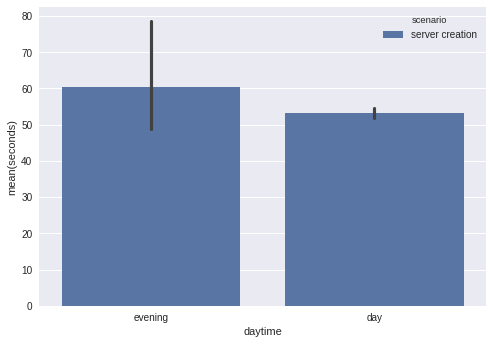
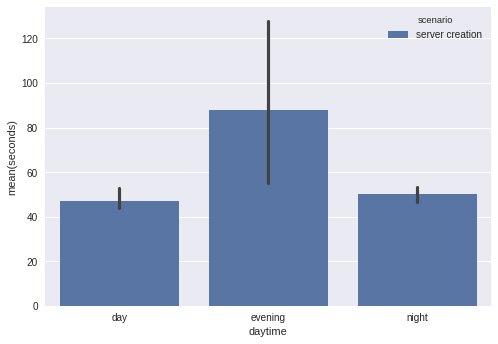
pick significant results and intepret them

diff --git a/deliverable.md b/deliverable.md
@@ -99,6 +99,7 @@ def create_server
     ' --security-group grp17_security_group'\
     " --key-name #{ENV['USER']}"
   `#{cmd}`
+  sleep 1 # api sometimes too slow...
   puts 'connecting floating ip to server'
   `openstack server add floating ip grp17_instance #{floating_ip}`
 end
@@ -152,32 +153,24 @@ end
 Our results for the measurements are the following:
 
 ``` text
-2017-06-21 18:35:32 +0200;evening;server list;1.899074509
-2017-06-21 18:35:35 +0200;evening;server creation;50.507970476
-2017-06-21 18:46:26 +0200;evening;server list;2.64838352
-2017-06-21 18:46:30 +0200;evening;server creation;46.549212898
-2017-06-21 18:47:22 +0200;evening;server list;2.051581212
-2017-06-21 18:47:25 +0200;evening;server creation;46.005325541
-2017-06-21 18:48:20 +0200;evening;server list;2.060552441
-2017-06-21 18:48:23 +0200;evening;server creation;47.217909656
-2017-06-22 13:24:04 +0200;day;server list;3.527799193
-2017-06-22 13:24:08 +0200;day;server creation;53.149687065
-2017-06-22 13:25:07 +0200;day;server list;3.204144725
-2017-06-22 13:25:11 +0200;day;server creation;54.532848295
-2017-06-22 13:26:14 +0200;day;server list;2.200417879
-2017-06-22 13:26:18 +0200;day;server creation;51.837295877
-2017-06-22 17:35:17 +0200;evening;server list;2.404962081
-2017-06-22 17:35:21 +0200;evening;server creation;54.91377217
-2017-06-22 17:36:22 +0200;evening;server list;2.959915032
-2017-06-22 17:36:26 +0200;evening;server creation;127.804455102
-2017-06-22 17:38:41 +0200;evening;server list;2.101337913
-2017-06-22 17:38:44 +0200;evening;server creation;80.621974535
-2017-06-22 17:55:02 +0200;evening;server list;2.066445354
-2017-06-22 17:55:05 +0200;evening;server creation;49.318446759
-2017-06-22 17:56:01 +0200;evening;server list;2.328977439
-2017-06-22 17:56:05 +0200;evening;server creation;49.767466696
-2017-06-22 17:57:03 +0200;evening;server list;2.125526848
-2017-06-22 17:57:06 +0200;evening;server creation;51.454686795
+2017-06-26 10:17:16 +0200;day;server list;1.898167474
+2017-06-26 10:17:18 +0200;day;server creation;44.236652119
+2017-06-26 10:18:10 +0200;day;server list;1.909897429
+2017-06-26 10:18:12 +0200;day;server creation;52.718781472
+2017-06-26 10:19:12 +0200;day;server list;1.921518069
+2017-06-26 10:19:14 +0200;day;server creation;43.841367673
+2017-06-26 17:35:17 +0200;evening;server list;2.404962081
+2017-06-26 17:35:21 +0200;evening;server creation;54.91377217
+2017-06-26 17:36:22 +0200;evening;server list;2.959915032
+2017-06-26 17:36:26 +0200;evening;server creation;127.804455102
+2017-06-26 17:38:41 +0200;evening;server list;2.101337913
+2017-06-26 17:38:44 +0200;evening;server creation;80.621974535
+2017-07-02 00:00:23 +0200;night;server list;3.16800319
+2017-07-02 00:00:26 +0200;night;server creation;53.355386207
+2017-07-02 00:01:30 +0200;night;server list;3.27768787
+2017-07-02 00:01:33 +0200;night;server creation;50.141687503
+2017-07-02 00:02:35 +0200;night;server list;2.844035127
+2017-07-02 00:02:38 +0200;night;server creation;46.623196888
 ```
 
 Scenario one (server list).
@@ -187,6 +180,20 @@ Scenario one (server list).
 Scenario two (server creation).
 
 ![](images/server_creation.png)
+
+In the results we can see, that server list api requests take between
+1.9 and 3.3 seconds. At ~10 a.m. the requests were the fastest and had
+the fewest deviation. Probably not many people are using the api at
+that time. This correlates to the server creation at that
+time. Evening times seem much busier.
+
+Server cration takes between 44 and 128 seconds. We expected a
+correlation between server list and server creation at any daytime,
+but in the night server creation was almost as fast as during 10
+a.m.. This may also be just a network latency problem, though.
+
+The busiest time is in the evening. One server creation process took
+over 2 minutes, which is quite long.
 
 ### 2. Introducing Heat
 
